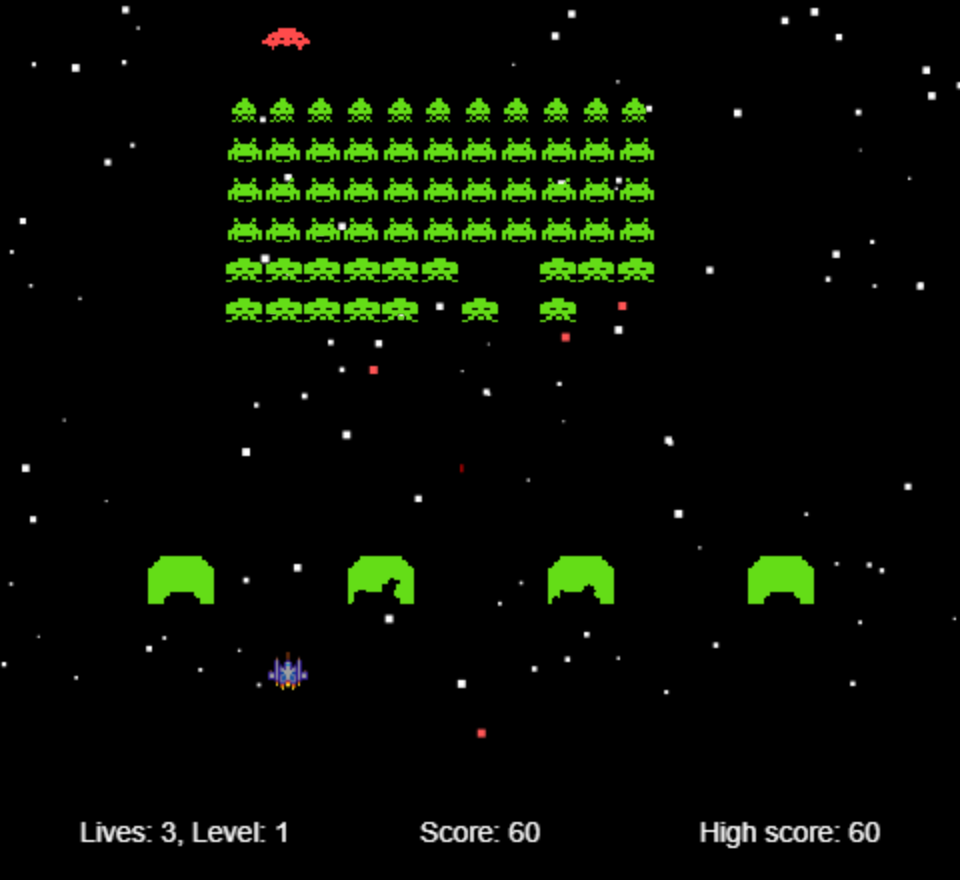
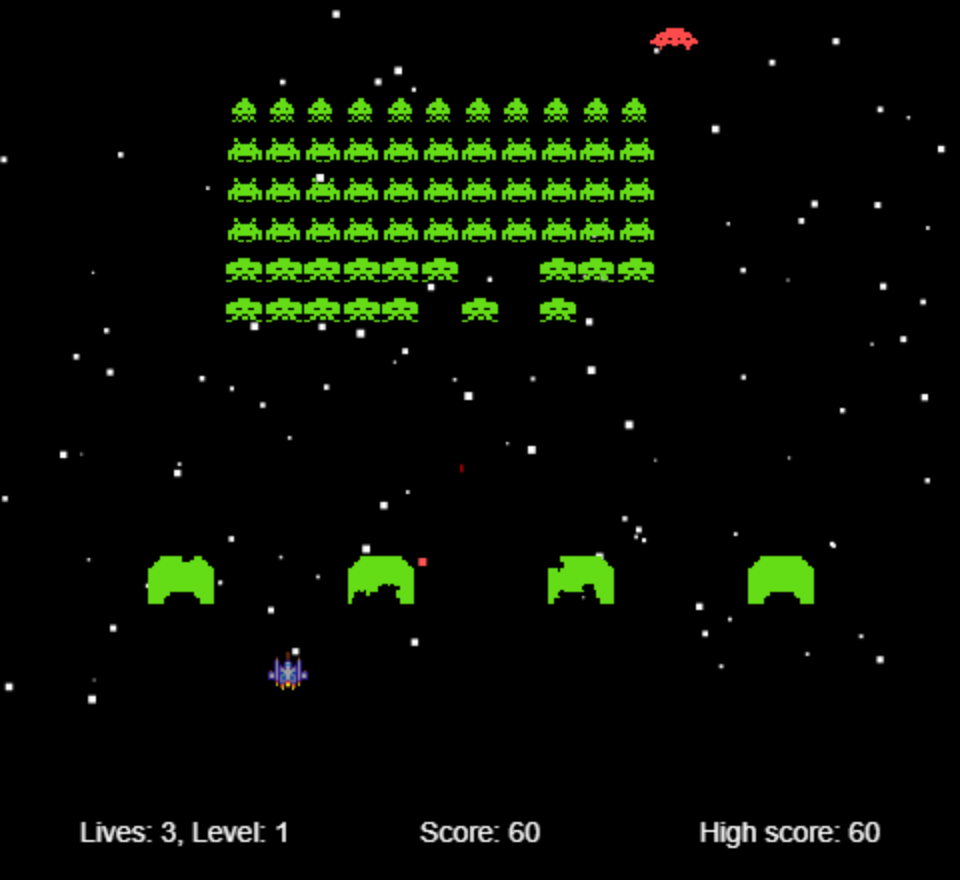
Bring the README up to date for 1.9
Add the UFO to the header pictures, a new screenshot from the current
game, a note that the start screen shows the version (and how to reload
on a phone if it's out of date), how the UFO and shields are drawn, a
"Releasing a version" section covering package.json and the ?v= links,
and a fuller description of spaceinvaders.js in the project layout.

diff --git a/README.md b/README.md
@@ -1,5 +1,7 @@
 <div align="center">
 
+<img src="images/ufo.png" alt="Mystery UFO" width="64">
+
 <img src="images/squid.png" alt="Squid invader" width="32">&nbsp;&nbsp;&nbsp;<img src="images/crab.png" alt="Crab invader" width="44">&nbsp;&nbsp;&nbsp;<img src="images/octopus.png" alt="Octopus invader" width="48">
 
 # Invaders
@@ -45,6 +47,8 @@ Play it in your browser at **[azadmotala.github.io/invaders](https://azadmotala.
 | Invader colours | **Random colours** button | **Random colours** button |
 
 On a computer the buttons sit under the game. On a phone or tablet they're in the top corner.
+
+The start screen shows which version you're playing. If it's older than the [latest release](https://github.com/azadmotala/invaders/releases), reload the page. On a phone, use the reload button in the address bar, since pulling down to refresh doesn't work in the game.
 
 ### Rules
 
@@ -106,9 +110,13 @@ All the tuning sits in the `config` object at the top of [`js/spaceinvaders.js`]
 | `shieldCount` | `4` | How many shields there are (`0` for none) |
 | `extraLifeScore` | `1500` | The score that earns the extra life (`0` for none) |
 
-The invaders are drawn in code. `INVADER_TYPES`, near the top of the same file, holds each kind's pixel grids for its two poses and how many points it's worth. Edit a grid to redraw an invader, or add colours to `INVADER_COLOURS`.
+The invaders are drawn in code. `INVADER_TYPES`, near the top of the same file, holds each kind's pixel grids for its two poses and how many points it's worth. Edit a grid to redraw an invader, or add colours to `INVADER_COLOURS`. The mystery UFO (`UFO_PIXELS`) and the shields (`SHIELD_PIXELS`) are drawn the same way.
 
 Add `?debug=true` to the URL and the game outlines the play area.
+
+### Releasing a version
+
+Set the new version in two places: `"version"` in `package.json`, and the `?v=` at the end of each stylesheet and script link in `index.html`. The `?v=` makes browsers load the new files instead of older cached copies, and the start screen reads its version from there.
 
 ## Project layout
 
@@ -116,10 +124,10 @@ Add `?debug=true` to the URL and the game outlines the play area.
 invaders/
 ├── index.html            Page, canvas, input handling and touch-screen layout
 ├── js/
-│   ├── spaceinvaders.js  Game loop, states, ship, invaders and sound
+│   ├── spaceinvaders.js  Game loop, ship, invaders, UFO, shields, scoring and sound
 │   └── starfield.js      Scrolling star background
 ├── css/                  Page styles
-├── images/               Ship sprite, and invader pictures for the README
+├── images/               Ship sprite, and invader and UFO pictures for the README
 ├── sounds/               Sound effects
 ├── docs/                 Screenshot
 └── vite.config.js        Settings for npm run build
